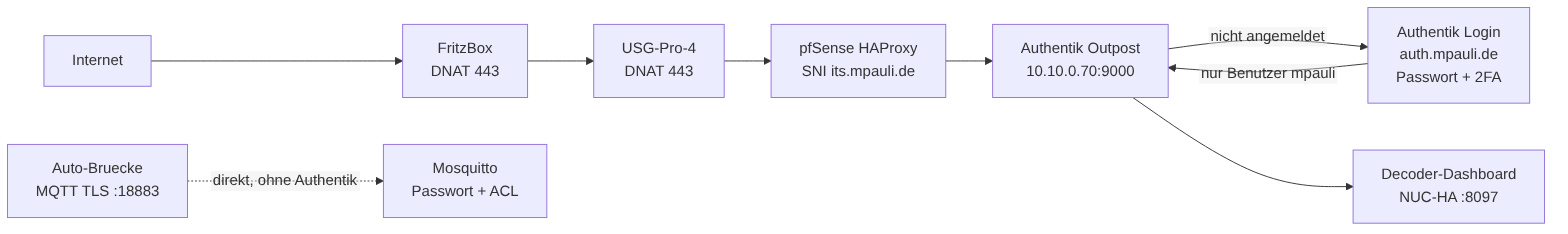
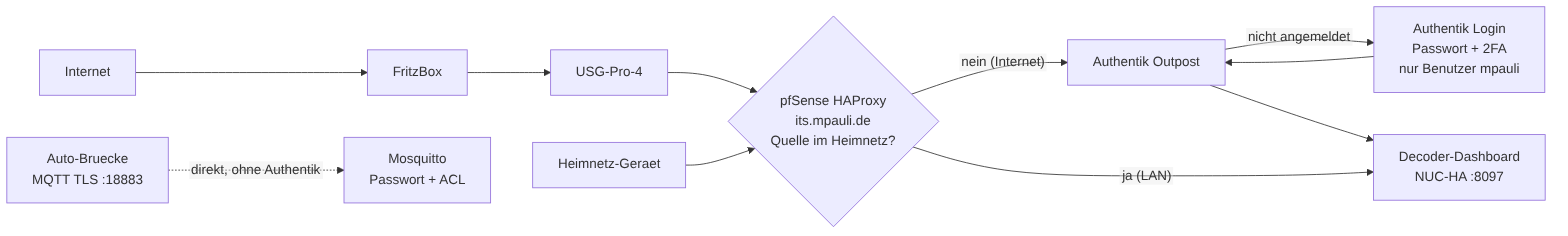
Dashboard: Heimnetz direkt, Internet nur ueber Authentik (LAN-Weiche)

diff --git a/docs/13-dashboard-veroeffentlichen.md b/docs/13-dashboard-veroeffentlichen.md
@@ -8,13 +8,13 @@ Das Dashboard ([09](09-decoder.md)) ist nach demselben Muster wie `invoice.mpaul
 
 ```mermaid
 flowchart LR
-    I["Internet"] --> F["FritzBox<br/>DNAT 443"]
-    F --> U["USG-Pro-4<br/>DNAT 443"]
-    U --> H["pfSense HAProxy<br/>SNI its.mpauli.de"]
-    H --> O["Authentik Outpost<br/>10.10.0.70:9000"]
-    O -- "nicht angemeldet" --> A["Authentik Login<br/>auth.mpauli.de<br/>Passwort + 2FA"]
-    A -- "nur Benutzer mpauli" --> O
+    I["Internet"] --> F["FritzBox"] --> U["USG-Pro-4"] --> H{"pfSense HAProxy<br/>its.mpauli.de<br/>Quelle im Heimnetz?"}
+    L["Heimnetz-Geraet"] --> H
+    H -- "nein (Internet)" --> O["Authentik Outpost"]
+    O -- "nicht angemeldet" --> A["Authentik Login<br/>Passwort + 2FA<br/>nur Benutzer mpauli"]
+    A --> O
     O --> D["Decoder-Dashboard<br/>NUC-HA :8097"]
+    H -- "ja (LAN)" --> D
     M["Auto-Bruecke<br/>MQTT TLS :18883"] -. "direkt, ohne Authentik" .-> B["Mosquitto<br/>Passwort + ACL"]
 ```
 
@@ -25,7 +25,8 @@ flowchart LR
 |---|---|
 | 1. Authentik (SSO + 2FA) | Wie bei allen aus dem Internet erreichbaren Diensten: HAProxy leitet an den Authentik-Outpost; nicht angemeldete Besucher werden zum Login (`auth.mpauli.de`, Passwort + 2. Faktor) umgeleitet |
 | 2. Nur `mpauli` | Zugriffsregel an der Anwendung `its`: nur der Benutzer `mpauli` (Policy-Binding, Modus „any") |
-| 3. Anwendung | Das Dashboard selbst hat keinen eigenen Login |
+| 3. Heimnetz direkt | Zugriffe aus dem Heimnetz (private Quelladresse, nicht die USG) gehen am HAProxy per Quell-IP-Weiche **direkt** zum Dashboard, ohne Authentik – wie bei Wazuh, Flightradar und Kroatien |
+| 4. Anwendung | Das Dashboard selbst hat keinen eigenen Login |
 
 **Ausnahme MQTT:** Die TLS-Verbindung der Auto-Brücke (`its.mpauli.de:18883`) läuft **direkt** am Broker vorbei an Authentik – sie ist durch TLS, Passwort und Schreib-ACL gesichert ([08](08-heimserver.md)).
 
@@ -33,14 +34,16 @@ flowchart LR
 1. **DNS/DDNS + Zertifikat:** `its` steht im Hetzner-DDNS-Skript; das Let's-Encrypt-Zertifikat wird per `acme.sh --dns dns_mphcloud` ausgestellt.
 2. **SSO-Veröffentlichung:** `/opt/sso-gate.sh its its.mpauli.de http://10.10.0.100:8097` legt Proxy-Provider und Anwendung in Authentik an, hängt sie an den Outpost und veröffentlicht am HAProxy (Backend = Outpost :9000).
 3. **Zugriff auf `mpauli` beschränken:** Policy-Binding (Benutzer `mpauli`, Reihenfolge 0) an der Anwendung, `policy_engine_mode = any` – wie bei ArgoCD, CheckMK u. a.
-4. **Split-DNS:** `/opt/sso-dns-sync.sh` biegt `its.mpauli.de` intern auf die HAProxy-Adresse (192.168.178.154) – dort greift dieselbe Authentik-Regel.
-5. Vorher war das Dashboard mit Basic-Auth und DE-Filter direkt veröffentlicht (Muster THW-Barbeleg); diese Direktveröffentlichung wurde entfernt (pfSense-Sicherung vorher).
+4. **LAN-Weiche:** Pool `its_direct_backend` (10.10.0.100:8097) und Regel `use_backend its_direct_backend if its_host guest_lan !guest_fritzbox` **vor** der Outpost-Regel im HAProxy-Frontend. Die ACLs `guest_lan` (10/8, 172.16/12, 192.168/16) und `guest_fritzbox` (192.168.178.1 = USG, Fail-safe) existieren bereits.
+5. **Split-DNS:** `/opt/sso-dns-sync.sh` biegt `its.mpauli.de` intern auf die HAProxy-Adresse (192.168.178.154) – dort greift dieselbe Authentik-Regel.
+6. Vorher war das Dashboard mit Basic-Auth und DE-Filter direkt veröffentlicht (Muster THW-Barbeleg); diese Direktveröffentlichung wurde entfernt (pfSense-Sicherung vorher).
 
 ## Prüfung (01.11.2026)
 | Test | Ergebnis |
 |---|---|
-| intern und extern (Hetzner-Server), `/` und `/api/state` ohne Anmeldung | 302 → Authentik-Login |
-| Basic-Auth mit alten Zugangsdaten | 401 (kein Zugriff mehr) |
+| **extern** (Hetzner-Server, öffentliche Quell-IP), `/` und `/api/state` ohne Anmeldung | 302 → Authentik-Login |
+| **intern** (Heimnetz-Quelle), `/` und `/api/state` | 200, direkt, ohne Anmeldung |
+| Basic-Auth mit alten Zugangsdaten von außen | 401 (kein Zugriff mehr) |
 | MQTT über TLS (`:18883`) von außen | direkt erreichbar, Anmeldung ok |
 | Vollständiger Browser-Login mit 2. Faktor | **nicht automatisiert getestet** – bitte einmal im Browser prüfen |
 
@@ -50,3 +53,5 @@ flowchart LR
 ## Wartung
 - Zertifikat erneuert acme.sh automatisch; für HAProxy muss das erneuerte Zertifikat erneut importiert werden (wie bei den übrigen Hosts, `/opt/sso-cert-deploy.sh`), für den Broker kopiert der `--reloadcmd` aus `scripts/setup-broker.sh` es.
 - Weitere Benutzer später: Policy-Binding in Authentik ergänzen.
+
+> Lehre aus dem Kroatien-Projekt: Eine Quell-IP-Weiche ist nur so vertrauenswürdig wie die Netzstruktur davor. Hier kommen Internet-Zugriffe mit ihrer echten öffentlichen Adresse an (am Test vom Hetzner-Server bestätigt); Anfragen, die über die USG-Adresse laufen, werden bewusst nicht als „Heimnetz" gewertet.

diff --git a/docs/14-inbetriebnahme.md b/docs/14-inbetriebnahme.md
@@ -8,7 +8,7 @@
 | Decoder + Dashboard | läuft; Tests mit synthetischen Daten; **Demo-Modus** (`decoder/tools_demo.py`) |
 | Home Assistant | Gerät „Ice-Traffic-Data" per MQTT-Discovery; Auto-Knoten-Entities bereit |
 | MQTT öffentlich | `its.mpauli.de:18883` von außen getestet ([08](08-heimserver.md)) |
-| Dashboard öffentlich | `https://its.mpauli.de` (hinter Authentik SSO + 2FA, nur `mpauli`) ([13](13-dashboard-veroeffentlichen.md)) |
+| Dashboard öffentlich | `https://its.mpauli.de` (Internet: Authentik SSO + 2FA, nur `mpauli`; Heimnetz direkt) ([13](13-dashboard-veroeffentlichen.md)) |
 | ChirpStack | Anwendung `IceTraffic`, Gerät `ice-car` (ABP) angelegt; Schlüssel nur lokal |
 | LoRa-Kette hinter dem Funkmodul | **Ende-zu-Ende ohne Hardware getestet** (simulierter Uplink → ChirpStack → Decoder → Home Assistant), siehe [Firmware-README](https://github.com/icepaule/Ice-Traffic-Data/tree/main/firmware/lora-car-node) |
 | Dokumentation | Mermaid als PNG (funktioniert überall), GitHub Pages |

diff --git a/docs/16-todo-nach-lieferung.md b/docs/16-todo-nach-lieferung.md
@@ -64,6 +64,7 @@ Reihenfolge von oben nach unten; Details zu den Schritten in [14](14-inbetriebna
 | Was | Adresse | Anmeldung |
 |---|---|---|
 | ITS-Dashboard (LAN) | `http://10.10.0.100:8097` | keine |
+| ITS-Dashboard (Heimnetz) | `https://its.mpauli.de` oder `http://10.10.0.100:8097` | keine, direkt |
 | ITS-Dashboard (Internet) | `https://its.mpauli.de` | Authentik-Login (SSO + 2FA), nur Benutzer `mpauli` |
 | Home Assistant (LAN) | `http://10.10.0.100:8123` → Einstellungen → Geräte → „Ice-Traffic-Data" | wie gewohnt |
 | ChirpStack | `http://10.10.0.100:8180` → Applications → IceTraffic → ice-car | Benutzer `admin`, Passwort lokal in `/opt/chirpstack/geiger_device.json` |
